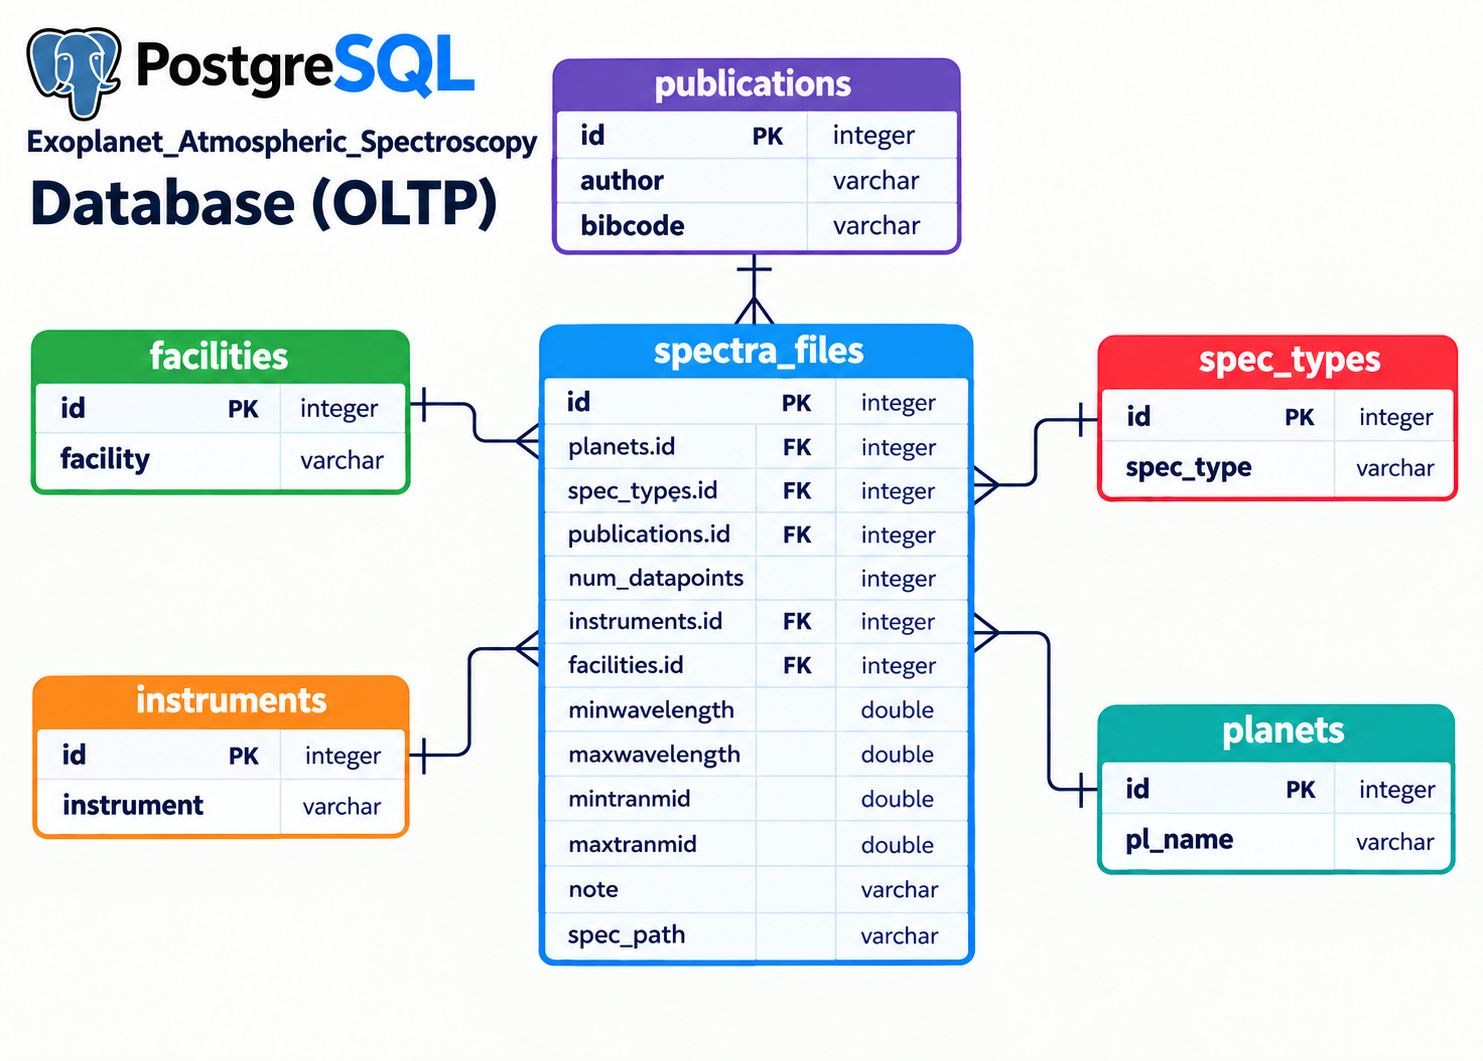
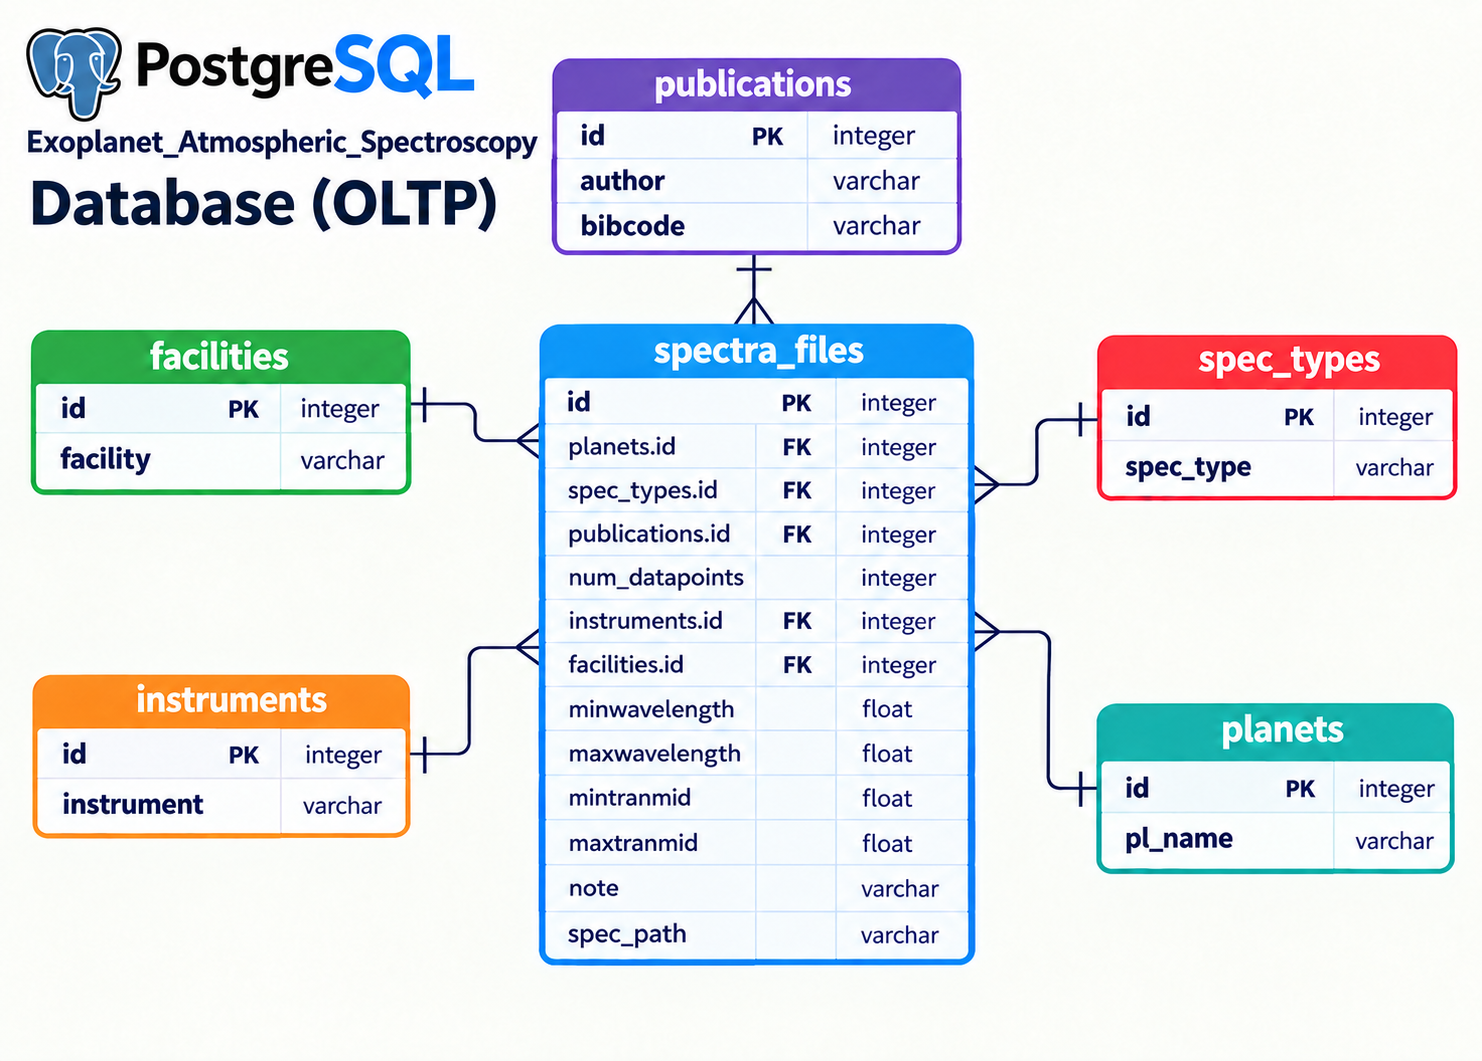
new files

diff --git a/fourth_load_fact_table.py b/fourth_load_fact_table.py
@@ -1,0 +1,112 @@
+# This script normalises the spectra_files table and assigns the appropriate
+# foreign keys to maintain data integrity
+
+from sqlalchemy import create_engine, text
+import pandas as pd
+
+def load_spectra_fact_table(spectra_dataframe, exodb_url):
+
+    engine = create_engine(exodb_url)
+
+    with engine.begin() as conn:
+        # This section of code grabs the look up tables back from PostgreSQL and assigns them to dataframes.
+        planets_df = pd.read_sql("SELECT * FROM planets;", conn)
+        publications_df = pd.read_sql("SELECT * FROM publications;", conn)
+        spec_types_df = pd.read_sql("SELECT * FROM spec_types;", conn)
+        facilities_df = pd.read_sql("SELECT * FROM facilities;", conn)
+        instruments_df = pd.read_sql("SELECT * FROM instruments;", conn)
+
+        exo_df = spectra_dataframe
+        exo_df["id"] = exo_df.index + 1 # The id coulumn of this intermediary dataframe is set to start at 1 not 0 (1 more than the index).
+
+        for i in range(len(exo_df)): # Iterates over each record in exo_df.
+
+            record = exo_df.iloc[i] # This is a single row from the spectra_files table grabbed from NASA's API/TAP service.
+
+            # Extract the relevant planet, publication, spectroscopy type, facility,
+            # and instrument information from each record for database insertions.
+            record_planet = record["pl_name"]
+            record_publication = record[["authors", "bibcode"]]
+            record_spec_type = record["spec_type"]
+            record_facility = record["facility"]
+            record_instrument = record["instrument"]
+
+            # This section of the code matches each record to the corresponding IDs in the related tables,
+            # then extract and convert the required spectral data fields for insertion
+            # into the spectra_files table
+            # if it is a Null or None value it is set to None.
+
+            pl_id = planets_df.loc[planets_df["pl_name"] == record_planet]["id"].values
+            if len(pl_id) == 0:
+                planet_id = None
+            else:
+                planet_id = int(pl_id[0])
+
+            spec_id = spec_types_df.loc[spec_types_df["spec_type"] == record_spec_type]["id"].values
+            if len(spec_id) == 0:
+                spec_types_id = None
+            else:
+                spec_types_id = int(spec_id[0])
+
+            pub_id = publications_df.loc[(publications_df["authors"] == record_publication["authors"]) & (publications_df["bibcode"] == record_publication["bibcode"])]["id"].values
+            if len(pub_id) == 0:
+                publication_id = None
+            else:
+                publication_id = int(pub_id[0])
+
+            instrument_id = instruments_df.loc[instruments_df["instrument"] == record_instrument]["id"].values
+            if len(instrument_id) == 0:
+                instrument_id = None
+            else:
+                instrument_id = int(instrument_id[0])
+
+            facility_id = facilities_df.loc[facilities_df["facility"] == record_facility]["id"].values
+            if len(facility_id) == 0:
+                facility_id = None
+            else:
+                facility_id = int(facility_id[0])
+
+            minwavelength = float(record["minwavelng"])
+            maxwavelength = float(record["maxwavelng"])
+            mintranmid = float(record["mintranmid"])
+            maxtranmid = float(record["maxtranmid"])
+            note = record["note"]
+            spec_path = record["spec_path"]
+
+            # This section of the code uses parameterised queries to assign the set variables to their corresponding columns.
+            conn.execute(text(
+                '''INSERT INTO spectra_files values ( 
+                    :id,
+                    :planets_id,
+                    :spec_types_id,
+                    :publications_id,
+                    :num_datapoints,
+                    :instruments_id,
+                    :facilities_id,
+                    :minwavelng,
+                    :maxwavelng,
+                    :mintranmid,
+                    :maxtranmid,
+                    :note,
+                    :spec_path);'''),
+
+                    {'id':int(record["id"]),
+                    'planets_id':planet_id,
+                    'spec_types_id': spec_types_id,
+                    'publications_id':publication_id,
+                    'num_datapoints':int(record["num_datapoints"]),
+                    'instruments_id':instrument_id,
+                    'facilities_id':facility_id,
+                    'minwavelng':minwavelength,
+                    'maxwavelng':maxwavelength,
+                    'mintranmid':mintranmid,
+                    'maxtranmid':maxtranmid,
+                    'note':note,
+                    'spec_path':spec_path
+                    })
+
+            # Counts the number of records inserted into spectra_files table and returns it for validation.
+            count_df = pd.read_sql('''SELECT COUNT(*) AS number_of_records FROM spectra_files;''', conn)
+            number_of_records_series = count_df.iloc[0].values
+            record_count = int(number_of_records_series[0])
+    return f"\n\n---Spectra_files inserted into PostgreSQL---\n\n---{record_count} records inserted into spectra_files table in PostgreSQL---\n\n-----Fact table inserted into PostgreSQL-----"

diff --git a/second_create_pg_tables.py b/second_create_pg_tables.py
@@ -33,9 +33,9 @@ def create_spec_tables(PostgreSQL_DATABASE_URL):
 
         CREATE TABLE IF NOT EXISTS publications (
         id INTEGER GENERATED ALWAYS AS IDENTITY PRIMARY KEY,
-        author VARCHAR,
+        authors VARCHAR,
         bibcode VARCHAR,
-        UNIQUE (author, bibcode)
+        UNIQUE (authors, bibcode)
         );
 
         CREATE TABLE IF NOT EXISTS facilities (
@@ -56,8 +56,8 @@ def create_spec_tables(PostgreSQL_DATABASE_URL):
         num_datapoints INTEGER,
         instruments_id INTEGER,
         facilities_id INTEGER,
-        minwavelength FLOAT,
-        maxwavelength FLOAT,
+        minwavelng FLOAT,
+        maxwavelng FLOAT,
         mintranmid FLOAT,
         maxtranmid FLOAT,
         note VARCHAR,

diff --git a/third_load_dim_tables.py b/third_load_dim_tables.py
@@ -46,7 +46,7 @@ def load_dim_tables(spectra_dataframe, exodb_url):
                 for i, publication in enumerate(publications):
                     author = publications[i][0] 
                     bibcode = publications[i][1]
-                    conn.execute(text(f'''INSERT INTO publications(author, bibcode) values(:author, :bibcode);'''), {"author":author, "bibcode":bibcode})
+                    conn.execute(text(f'''INSERT INTO publications(authors, bibcode) values(:authors, :bibcode);'''), {"authors":author, "bibcode":bibcode})
         return "---Publications inserted into PostgreSQL---"
 
     pl = insert_into_planets(spectra_dataframe, exodb_url)

diff --git a/master_execute.py b/master_execute.py
@@ -6,6 +6,7 @@ from dotenv import load_dotenv
 from first_api_call_df_creation import nasa_get
 from second_create_pg_tables import create_spec_tables
 from third_load_dim_tables import load_dim_tables
+from fourth_load_fact_table import load_spectra_fact_table
 import requests
 import pandas as pd
 from io import StringIO
@@ -29,3 +30,7 @@ print(result)
 # Step 3: Load in the dim table data into PostgreSQL
 loaded = load_dim_tables(spectra_dataframe, exodb_url)
 print(loaded)
+
+#Step 4: Load in the spectra fact table data into PostgreSQL
+spectra_loaded = load_spectra_fact_table(spectra_dataframe, exodb_url)
+print(spectra_loaded)
